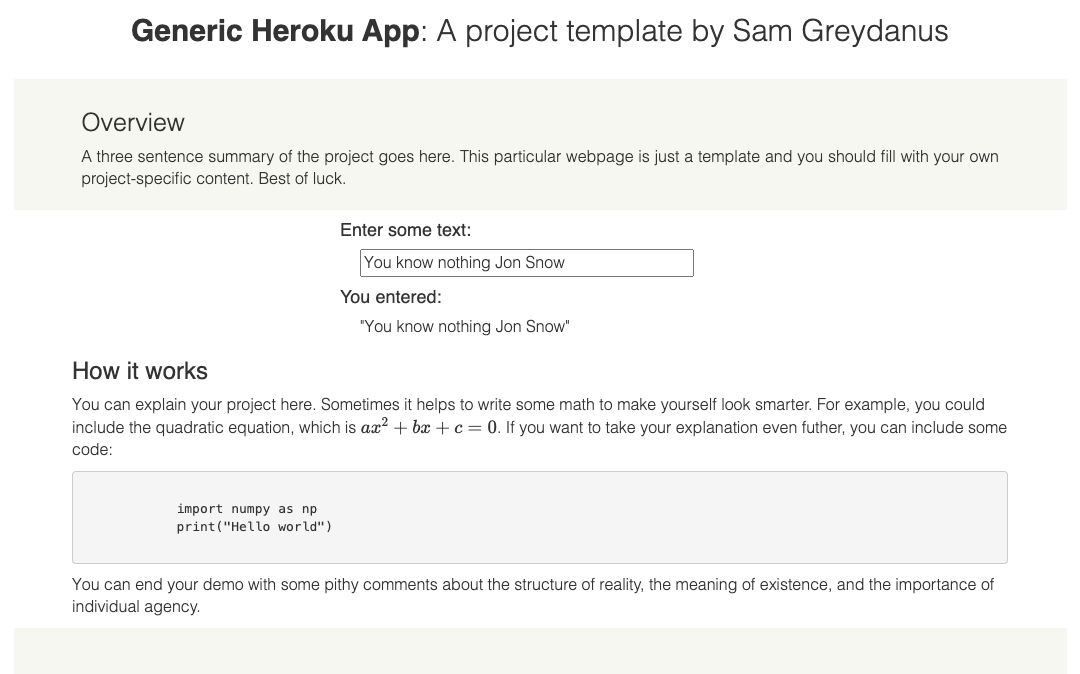
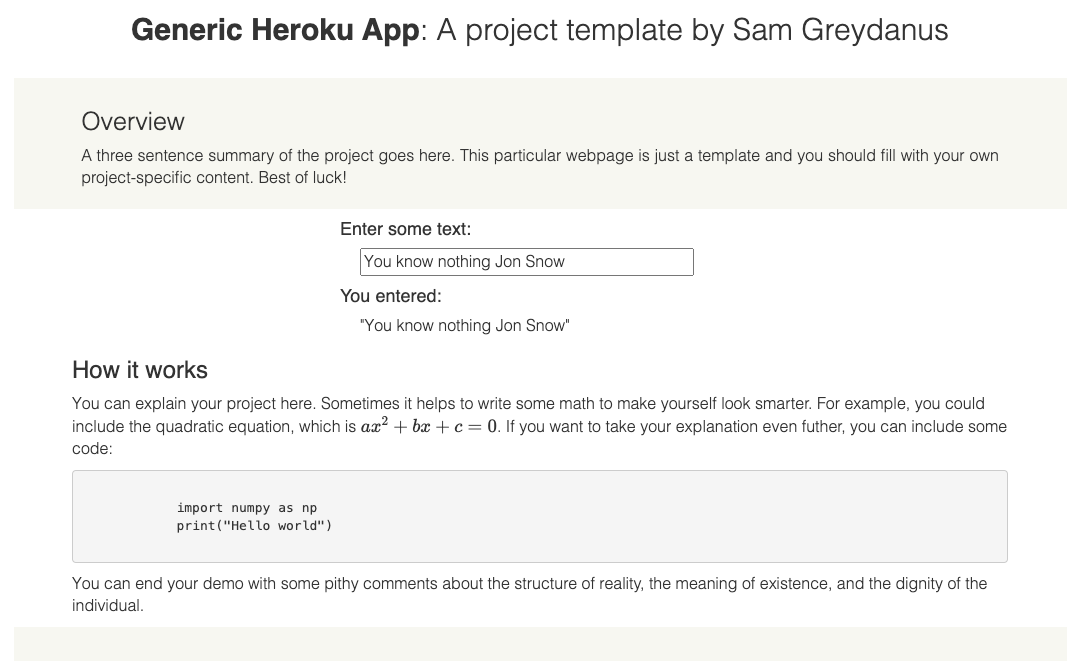
Change screenshot. This demo is now running live!

diff --git a/templates/index.html b/templates/index.html
@@ -11,7 +11,7 @@
 <div class="container sec">
   <h2>Overview</h2>
   <div id="coursedesc">
-    A three sentence summary of the project goes here. This particular webpage is just a template and you should fill with your own project-specific content. Best of luck.
+    A three sentence summary of the project goes here. This particular webpage is just a template and you should fill with your own project-specific content. Best of luck!
   </div>
 </div>
 </div>

diff --git a/README.md b/README.md
@@ -1,7 +1,7 @@
 # A Generic Heroku App
 Sam Greydanus
 
-This is a minimal template that is ready for deployment onto Heroku.
+This is a minimal template that is ready for deployment onto Heroku. It's running live at [https://generic-heroku.herokuapp.com/](https://generic-heroku.herokuapp.com/)
 
 To deploy:
 * Clone this repo to your GitHub
